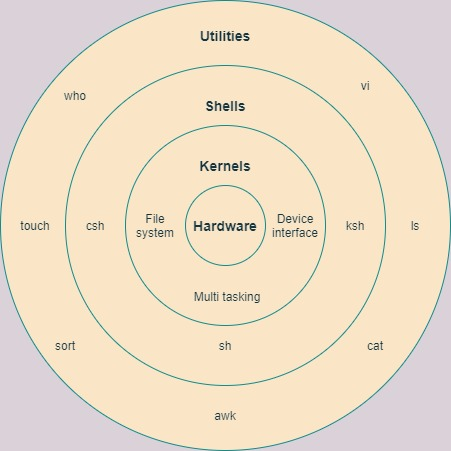
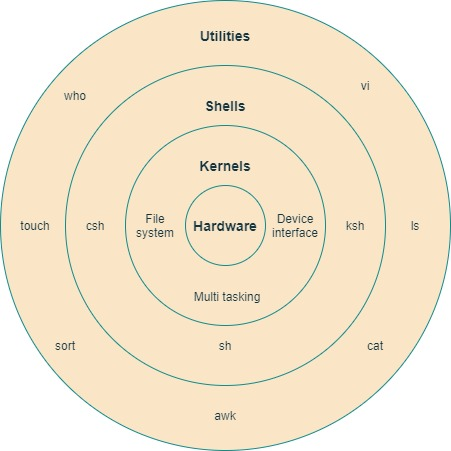
Added Linux Architecture

diff --git a/README.md b/README.md
@@ -9,7 +9,36 @@ Operating system is an interface between user and the computer hardware. The har
   * Single User - Single Tasking Operating System  
   * Single User - Multitasking Operating System  
   * Multi User - Multitasking Operating System  
- 
+
+## ![#1589F0](https://placehold.it/15/1589F0/000000?text=+) Linux Architecture
+
+* The architecture of UNIX can be divided into Four levels of functionality, as shown in Figure .  
+<p align="center">
+<img src="./LinuxArchitecture.jpg" width="400" height="300" /> 
+</p>
+
+* <b> Hardware </b>   
+Hardware consists of all physical devices attached to the System.   
+<b>Example:-</b> Hard disk drive, RAM, Motherboard, CPU etc.
+
+* <b> Kernel </b>  
+kernel is the core component for any (Linux) operating system which directly interacts with the hardware. it schedules tasks, manages resources, and controls security.
+  * Different types of the kernel are:  
+    * Monolithic Kernel  
+    * Hybrid kernels  
+    * Exo kernels  
+    * Micro kernels  
+
+* <b> Shell </b>  
+Shell is the interface which takes input from users and sends instructions to the Kernel, Also takes the output from Kernel and send the result back to output user and starting applications.  
+  * Types of shells are classified into four:
+    * Korn shell
+    * Bourne shell
+    * C shell
+
+* <b> Utilities </b>  
+Utilities provides the functionalities of an operating system to the users.
+
 ## ![#1589F0](https://placehold.it/15/1589F0/000000?text=+) Linux File System Hierarchy  
 
 |Path     | Description        |
